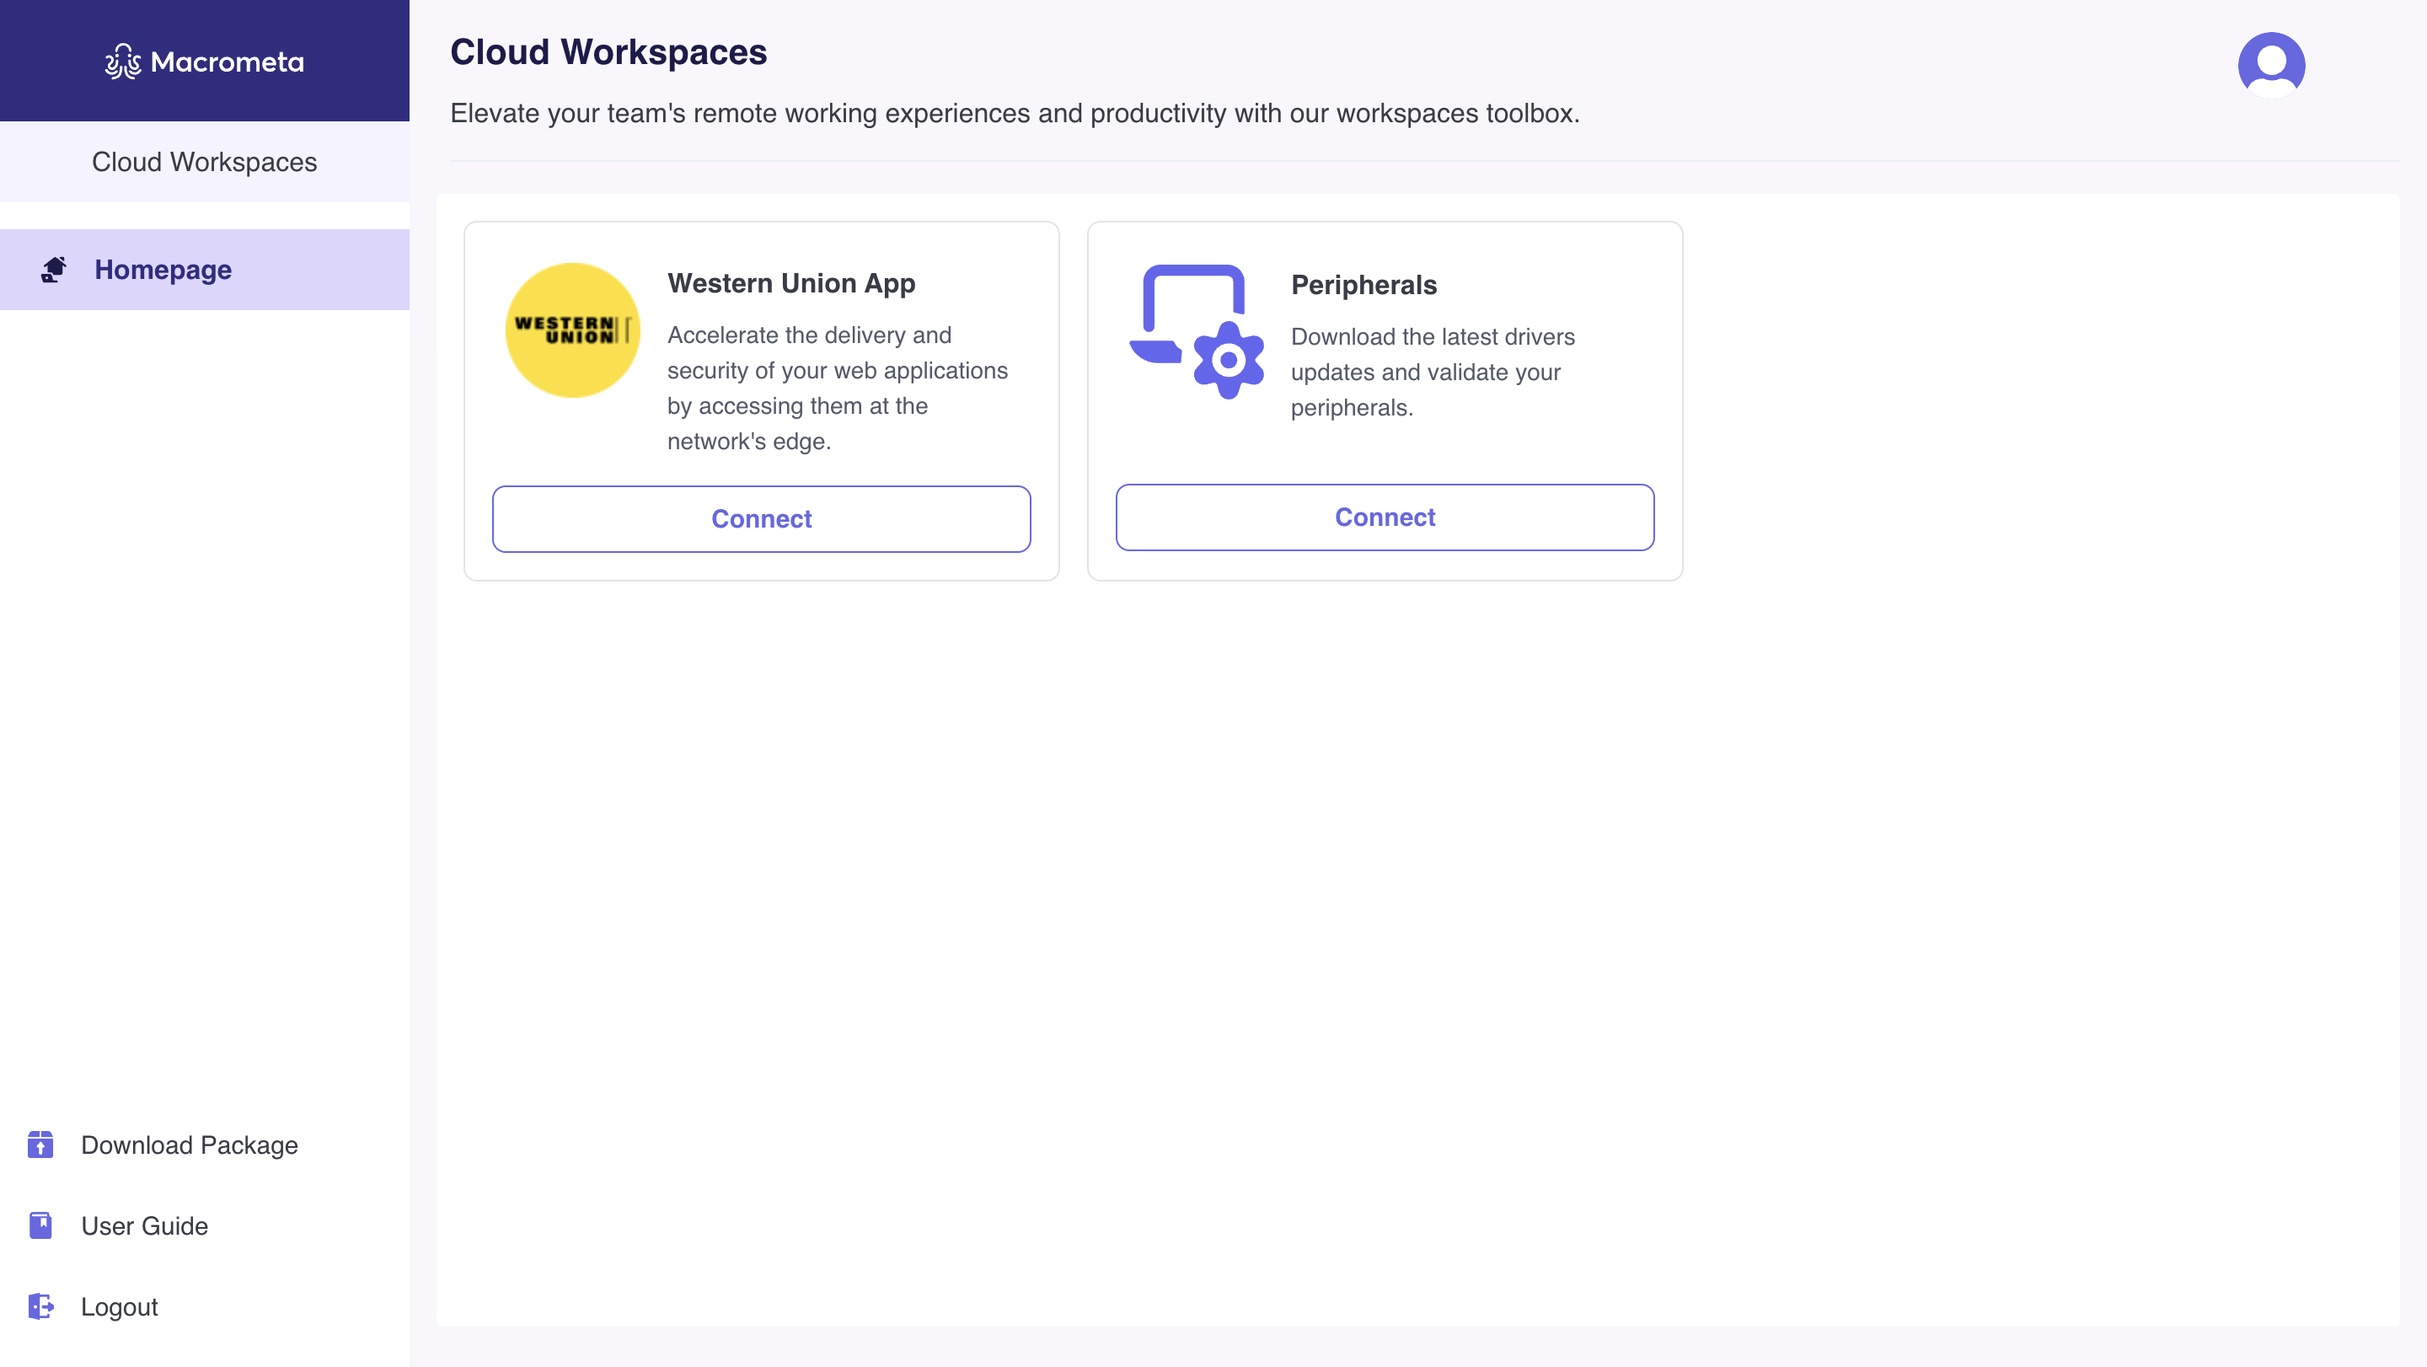
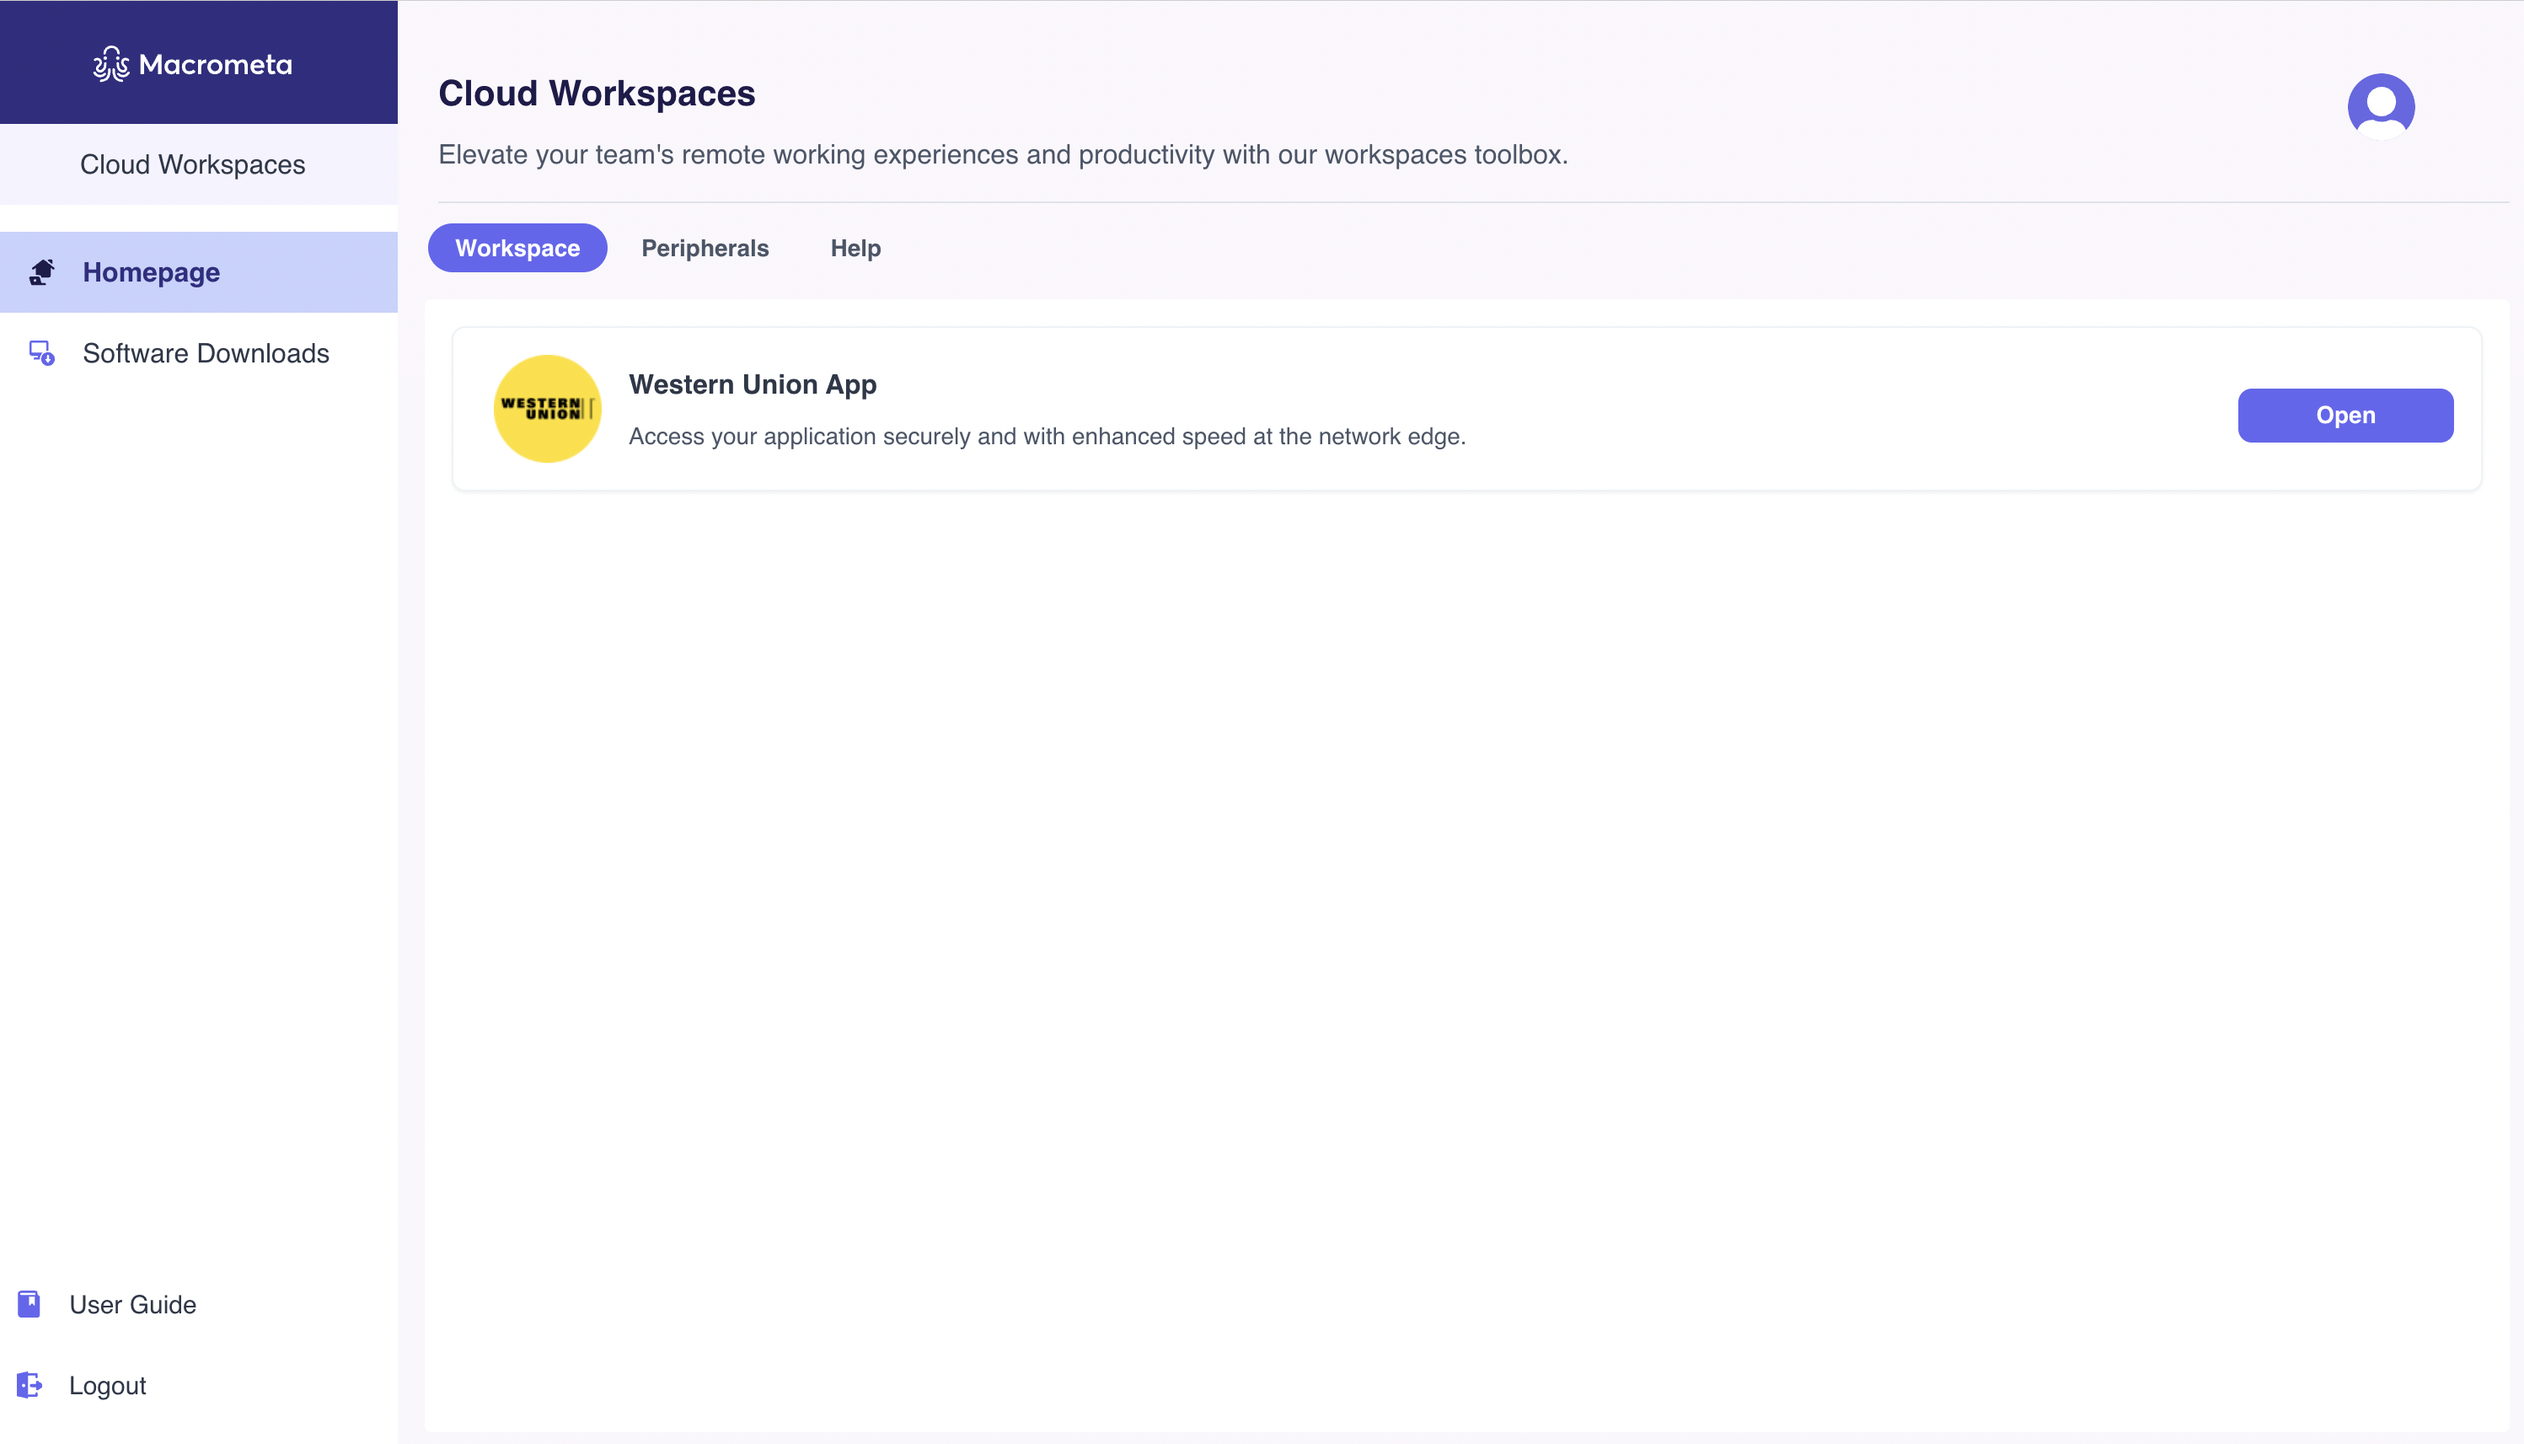
Workspaces Changes

diff --git a/docs/wu-runbook/vdi/index.md b/docs/wu-runbook/vdi/index.md
@@ -4,7 +4,14 @@ title:  Using VDI on Cloud Workspaces
 ---
 
 
-Cloud Workspaces provides Virtual Desktop Infrastructure (VDI), offering remote Windows and Linux desktops that are accessible through your browser. This allows you to perform tasks as if on a local machine.
+Cloud Workspaces provides Virtual Desktop Infrastructure (VDI), offering remote Windows desktops that are accessible through your browser. This allows you to perform tasks as if on a local machine.
+
+Cloud Workspaces offers you access to two different types of Windows VDI:
+
+- **Persistent VDI**: A persistent VDI retains your user session even after you log out, allowing you to resume your previous session and retain your work progress.
+
+- **Non-persistent VDI**: With non-persistent VDI, logging out of a session terminates that session. A new session is started upon logging back in, and data from the previous session is not retained.
+
  
 These remote desktops support the following key peripherals:  
 1. **Keyboard**
@@ -13,7 +20,72 @@ These remote desktops support the following key peripherals:
 4. **Camera** 
 5. **Speaker**
 
-### **Download the VDI Installer**
+## Accessing VDI
+
+You can access VDI on Cloud Workspaces through two methods:
+
+1. **[Native client](#accessing-vdi-on-the-native-client):** The native client allows you to connect to the remote Windows desktop using RDP on your device. This option is exclusively available for Windows devices.  
+
+2. **[Universal client](#accessing-vdi-on-the-universal-client):** The universal client provides access to the remote Windows desktop directly through a web browser. This method is accessible to all users, regardless of their operating system.
+
+
+### Accessing VDI on the universal client
+
+To **start using the remote Windows desktop on the universal client**, 
+
+1. Navigate to the **Workspaces** homepage and click the **Universal Client** button for Windows. 
+
+   ![universal-login.jpg](/img/runbook-images/vdi-mac.png)
+
+2. It opens up the VDI in another broswer tab as shown below:
+
+   ![universal-login.jpg](/img/runbook-images/universal-login.jpg)
+
+:::tip
+- Click the Allow button to enable clipboard functionality in your VDI.
+- If you receive a pop-up blocked notification, you may need to enable pop-ups in your browser settings for the VDI tab to open successfully.
+:::
+
+2. Login with your credentials and click **Connect**. You now have full access to a remote Windows desktop, enabling you to perform your tasks as if you were working on a local machine.
+
+From this point, you can begin your work just as you would on a local machine. Launch applications, access files, use the terminal or browser, configure your settings - all within the secure confines of your browser tab.
+
+#### Windows remote desktop menu
+
+The Windows remote desktop interface in Cloud Workspaces on the universal client provides essential control options to enhance your user experience and manage your session effectively:
+
+![Windows Remote Desktop Menu](/img/runbook-images/windows-menu.png)
+
+1. **Display**
+   - Fit: Adjusts the screen display to fit within some dimensions of your local screen.
+   - Full: Expands the remote desktop to utilize your full screen, maximizing workspace.
+   - Real: Displays the remote desktop at its native resolution, allowing for detailed viewing.
+
+2. **Ctrl+Alt+Del**: Opens a menu with account management and security options, including:
+   - **Lock**: Secure your session.
+   - **Sign Out**: Log out of the Windows session.
+   - **Change Password**: Update your account password.
+   - **Task Manager**: Access the Task Manager to monitor and manage running applications and processes.
+
+3. **Meta icon**: Displays the Windows Start menu, providing quick access to applications and system settings.
+
+4. **Toggle cursor kind**: Switch between different cursor types to suit your preferences or specific applications.
+
+5. **Terminate session**: Closes the remote desktop session, ending your current connection to the virtual desktop safely.
+
+These options help customize your remote desktop experience, manage your session, and navigate the Windows environment efficiently.
+
+### Accessing VDI on the native client
+
+To **start using the remote Windows desktop on the native client**, 
+
+1. Navigate to the **Workspaces** homepage and click the **Native Client** button for **Windows Web Dev**. 
+
+   ![vdi-user](/img/runbook-images/vdi.png)
+
+2. It prompts you to download the VDI Installer if you haven't.
+
+#### **Download the VDI Installer**
 
 Before accessing remote desktops using VDI, you're required to do the following:
  
@@ -26,17 +98,7 @@ Before accessing remote desktops using VDI, you're required to do the following:
 The VDI installer is configured to support only the Windows VDI in this release.
 :::
 
-### **Working with Windows**
-
-Cloud Workspaces offers you access to two different types of Windows VDI:
-
-- **Persistent VDI**: A persistent VDI retains your user session even after you log out, allowing you to resume your previous session and retain your work progress.
-
-- **Non-persistent VDI**: With non-persistent VDI, logging out of a session terminates that session. A new session is started upon logging back in, and data from the previous session is not retained.
-
-:::tip
-The Windows VDI is exclusively available on Windows OS/terminals in this release.
-:::
+#### **Working with Windows**
 
 To **start using the remote Windows desktop**, 
 

diff --git a/docs/wu-runbook/index.md b/docs/wu-runbook/index.md
@@ -35,9 +35,9 @@ Ignore steps 1 and 2 if you are already logged into Cloud Workspaces.
    
         ![onboarding-page](/img/runbook-images/onboarding.png)
 
-     - If you're a returning user, you are automatically redirected to the homepage. The services displayed in your homepage is based on your [user subscription](#workspace-subscriptions). The homepage below is for users subscribed to RBA and VDI.
+     - If you're a returning user, you are automatically redirected to the homepage. The services displayed in your homepage is based on your [user subscription](#workspaces-subscriptions). The homepage below is for users subscribed to RBA and VDI.
 
-        ![vdi-rba-user](/img/runbook-images/rba-vdi.png)
+        ![vdi-rba-user](/img/runbook-images/rba-vdi-mac.png)
 
 :::note
 If you missed the installers, click the **Software Downloads** menu from the sidebar to return to the installer screen.
@@ -45,15 +45,16 @@ If you missed the installers, click the **Software Downloads** menu from the sid
 
 The sidebar also provides access to the **User Guide** and **Logout** options. To view your profile, click the **user icon** in the top-right corner of the screen. 
 
-## **Workspaces Subscriptions**
+## **Workspaces subscriptions**
 
-Cloud Workspaces has different tools in its toolbox and are available based on subscriptions. Depending on subscriptions, there are three classes of Cloud Workspace users:
+Cloud Workspaces has different tools in its toolbox which are available based on subscriptions. Depending on subscriptions, there are three classes of Cloud Workspace users:
 
 - **VDI users**: This class of users can only access the Windows VDI. After logging into Workspaces, users with only a VDI subscription have the following homepage.
 
-![vdi-user](/img/runbook-images/vdi.png)
+![vdi-user](/img/runbook-images/vdi-mac.png)
 
-- **RBA users**: Users in this group can only access RBA and their valid web apps.
+
+- **RBA users**: Users in this group can only access their designated web applications, specifically the Western Union App in this instance.
 
 ![rba-user](/img/runbook-images/rba.png)
 
@@ -62,7 +63,7 @@ Cloud Workspaces has different tools in its toolbox and are available based on s
 ![vdi-rba-user](/img/runbook-images/rba-vdi.png)
 
 **Next steps:**
-- For admins, visit the [Workspace Management guide](workspace-manangement.md) to configure your domain and manage your subscriptions.
+- For admins, visit the [Workspace Management guide](workspace-manangement.md) to configure your domain.
 - For WUPOS users, continue with the steps highlighted in [ Using RBA to access the Western Union App](./rba/index.md).
 - VDI users can continue with the [setup process](./vdi/index.md) to start using remote desktops.
 

diff --git a/docs/wu-runbook/rba/index.md b/docs/wu-runbook/rba/index.md
@@ -9,6 +9,8 @@ WUPOS Agents can access the Western Union app using Remote Browser Acceleration 
 
 - **RBA Installer Token**: The RBA Installer Token is required when [setting up the installer](#download-the-rba-installer). To access this token, return to the [onboarding screen](../index.md#connecting-to-workspaces) or navigate to **Software Downloads** from the homepage sidebar. Click on **RBA Installer Token** and copy the displayed token. 
 
+    ![rba-installer.jpeg](/img/runbook-images/rba-installer.jpg)
+
 ### **Download the RBA Installer**
 
 To use the Western Union App with RBA, the following installation steps is required to configure the necessary drivers:
@@ -40,11 +42,11 @@ The RBA installer also installs a Chrome browser on your device. You must access
 
 After setting up the RBA installer and restarting your device, continue with the following steps to access the Western Union app from Workspaces:
 
-1. Log in to Cloud Workspaces on the newly installed browser and click **Go home** if you're not on the homepage.
+1. Log in to Cloud Workspaces on the newly installed browser and click **Go home** if you're not on the homepage. As mentioned in subscriptions, the tools available in your workspace may vary depending on your [user subscription](../index.md#workspaces-subscriptions).
 
-    ![home-page](/img/runbook-images/workspaces-homepage.png)
+    ![home-page](/img/runbook-images/rba.png)
 
-2. From the **Workspaces** homepage, click **Connect** for the **Western Union App**. The web app opens up in a new tab within the remote browser.
+2. From the **Workspaces** homepage, click **Open** for the **Western Union App**. The web app opens up in a new tab within the remote browser.
 
     ![wu](/img/runbook-images/western-union.png)
 

diff --git a/docs/wu-runbook/rba/validating-peripherals.md b/docs/wu-runbook/rba/validating-peripherals.md
@@ -14,9 +14,9 @@ WUPOS agents are required to configure the supported peripheral devices to ensur
 
 To verify the functionality of your connected devices, use the **Peripheral Validator**: 
    
-- Navigate to the **Peripherals** in the homepage and click **Connect** for the **Peripherals**  menu to start the validation process for each device. 
-   
-  ![workspaces-homepage](/img/runbook-images/workspaces-homepage.png)
+- Navigate to the **Peripherals** in the homepage and click **Open** for the **Peripherals** menu .
+  
+  ![workspaces-homepage](/img/runbook-images/peripherals-homepage.png)
 
 - It displays all the supported peripheral devices that can be validated.
 

diff --git a/docs/wu-runbook/workspace-manangement.md b/docs/wu-runbook/workspace-manangement.md
@@ -5,7 +5,7 @@ sidebar_label: Workspace Management
 ---
 
 
-Cloud Workspaces offers its management dashboard for admin users to configure and edit their domain.
+Cloud Workspaces provides the management dashboard for admin users to configure thier Active Directory.
 
 ![admin-dashboard](/img/workspaces/management-dashboard.png)
 
